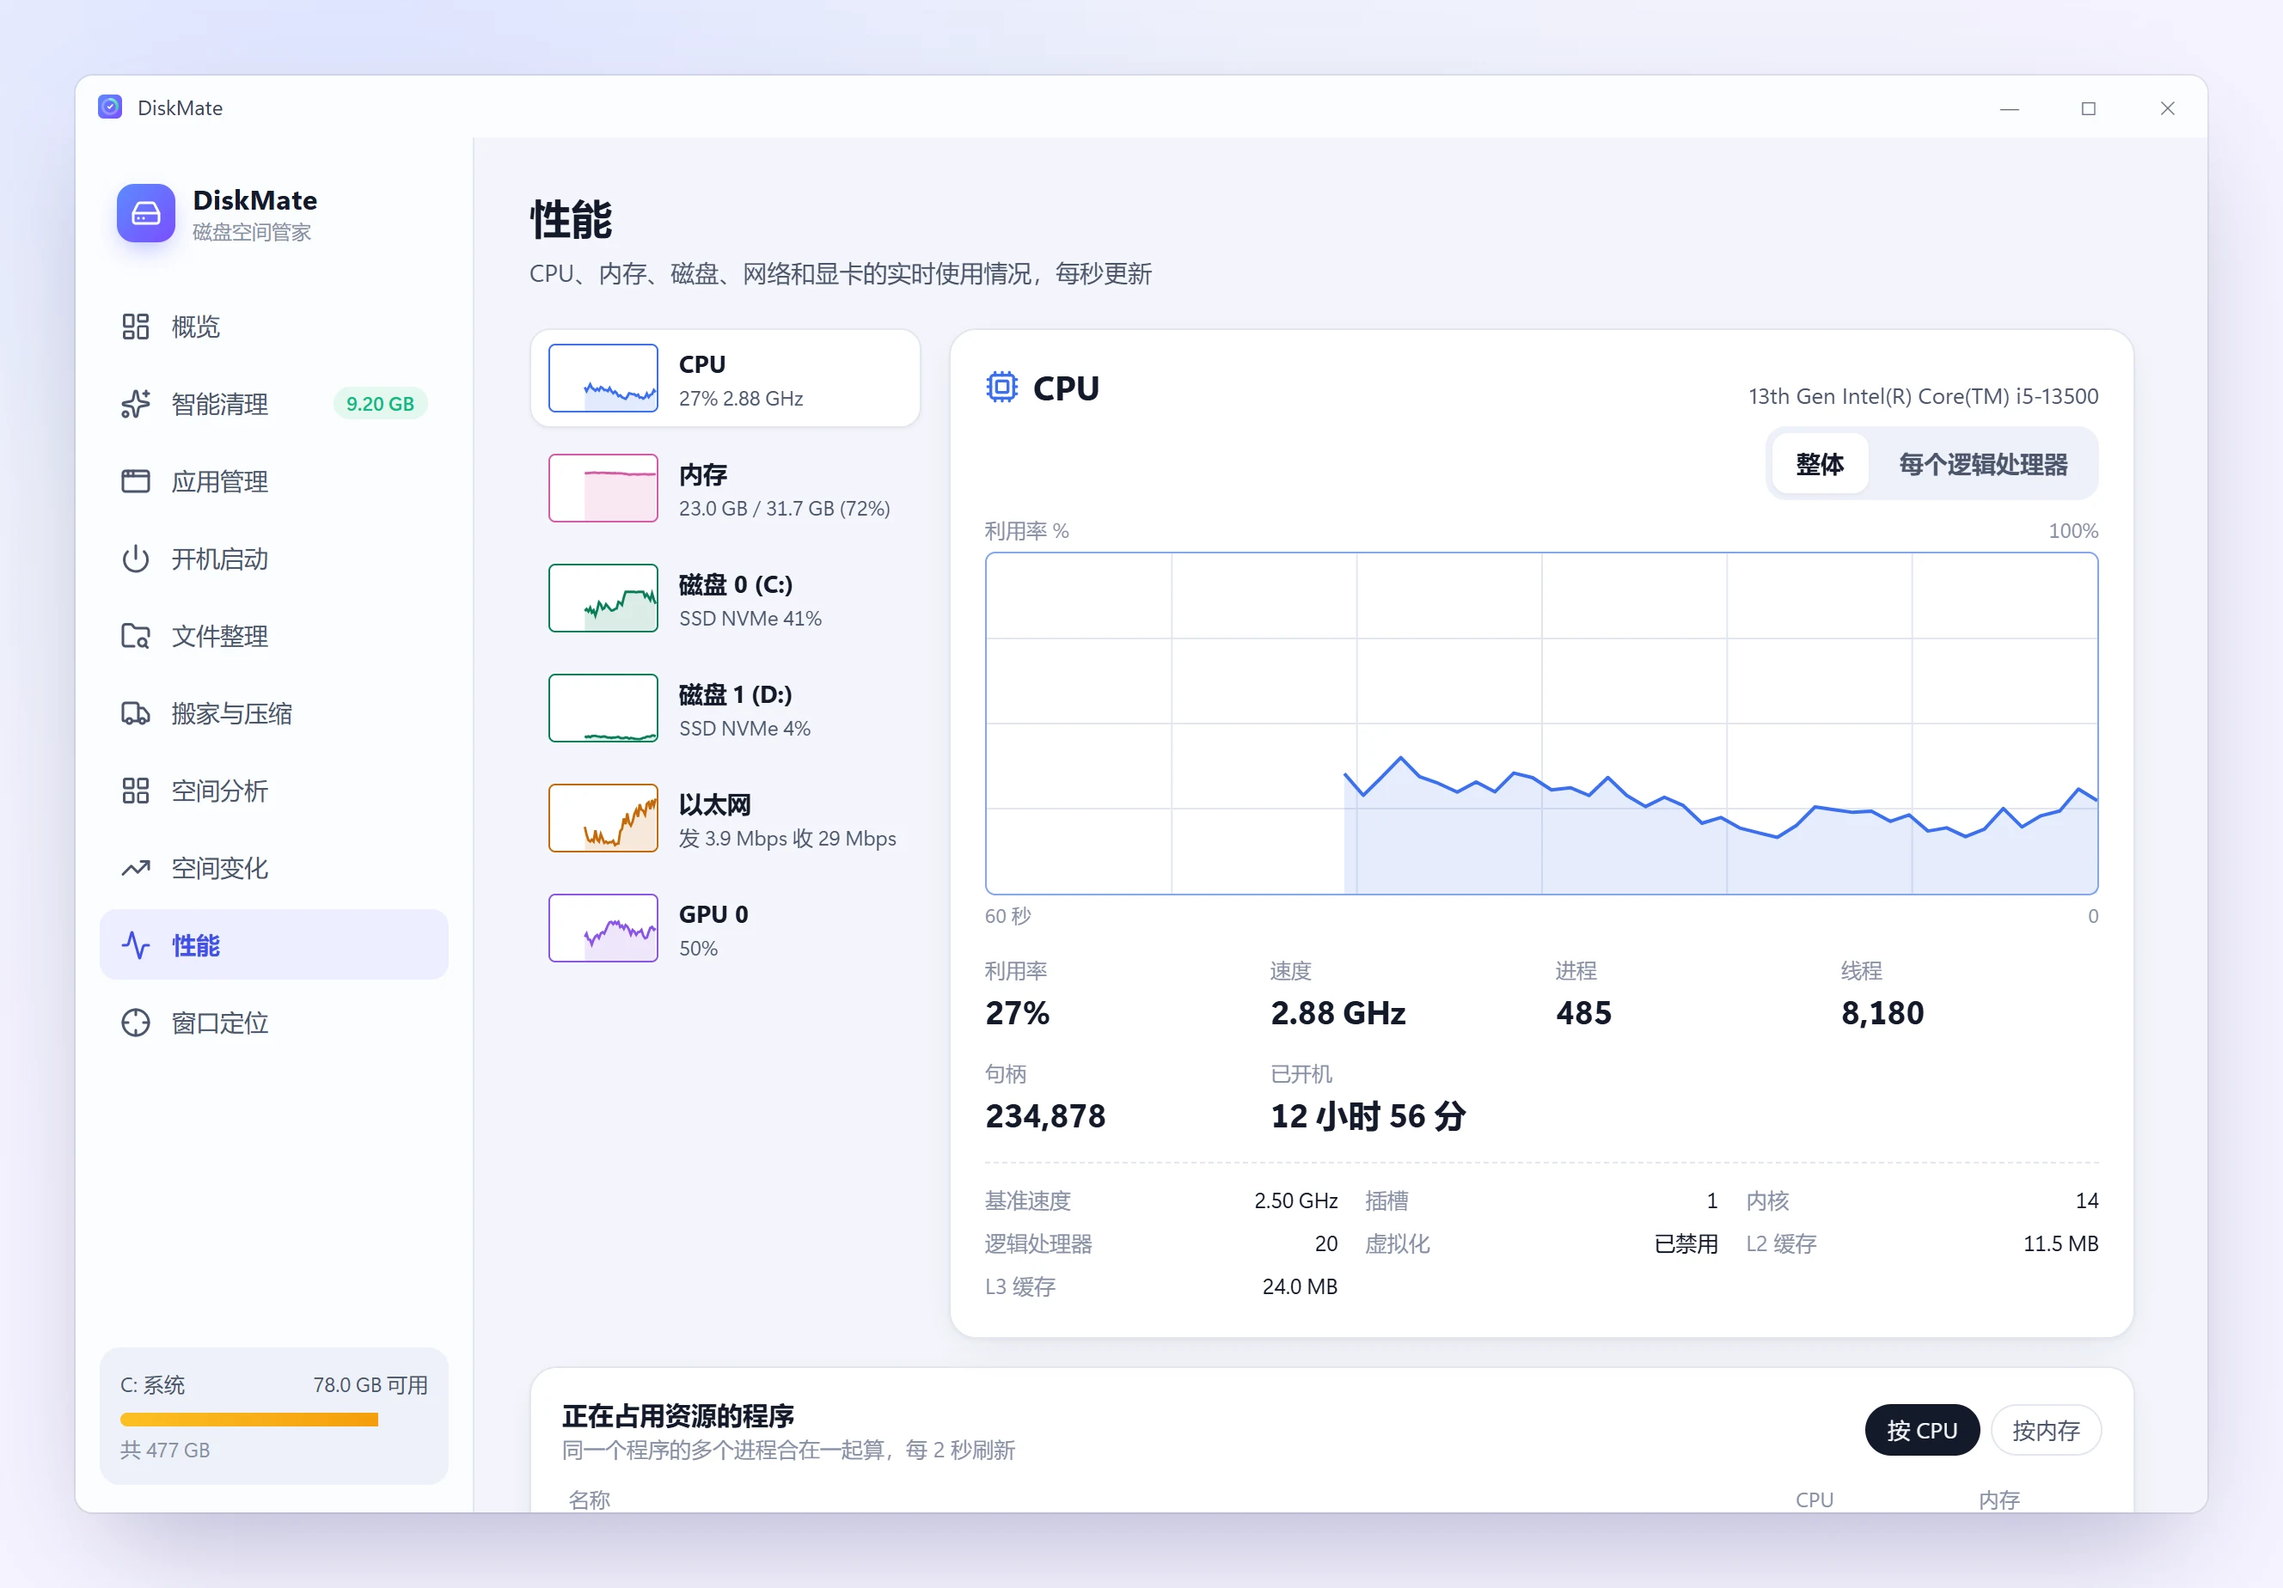
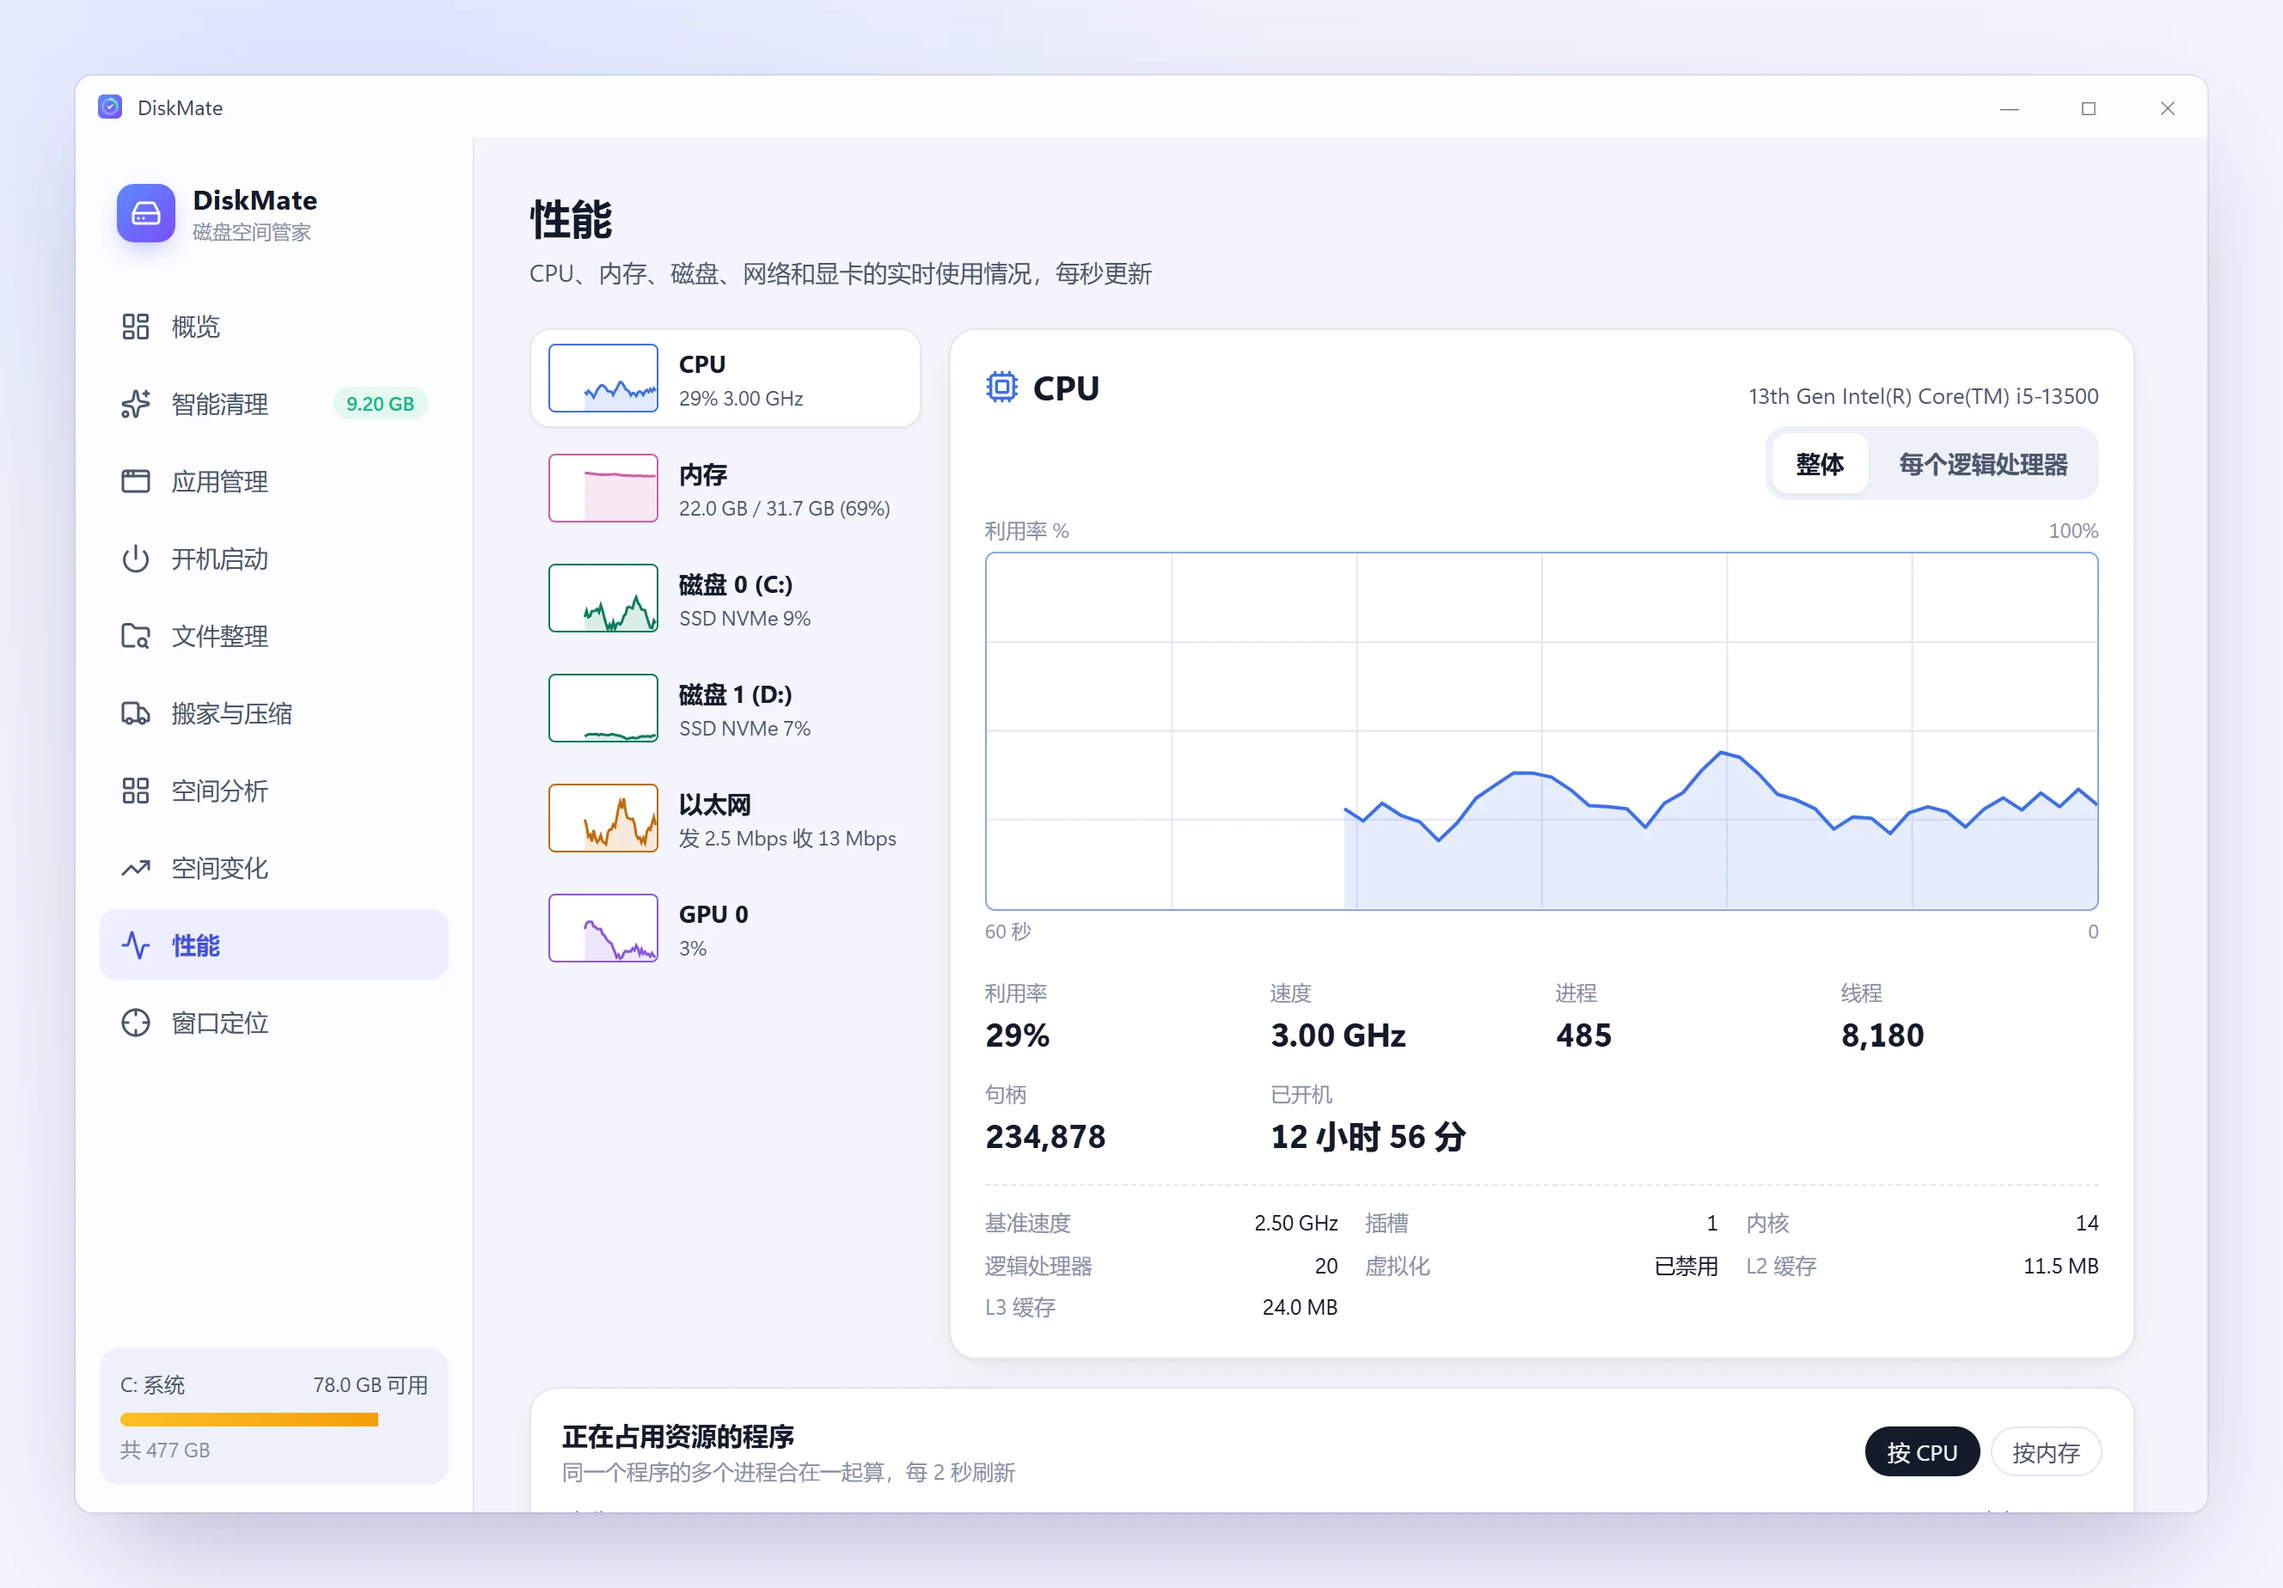
fix(perf): keep the performance page's panels in place
- The detail card has one height for every resource (600 px, 680 px on narrow windows) and
  the graphs take whatever height the stats leave, so switching CPU / memory / disk / network /
  GPU no longer moves the program list below (it moved by up to 162 px)
- Per-core graphs stretch to fill the card
- The program list is ordered by a running average, so rows only change places when a
  program's use really changes; the numbers shown stay live
- Screenshots re-captured

diff --git a/src/pages/Perf.tsx b/src/pages/Perf.tsx
@@ -57,14 +57,15 @@ function Chart({
   color,
   format,
   label,
-  height = 200,
+  grow = 1,
 }: {
   series: Series[];
   max: number;
   color: string;
   format: (v: number) => string;
   label: string;
-  height?: number;
+  /** Share of the detail card's free height, against the other graphs in the same view. */
+  grow?: number;
 }) {
   const W = 600;
   const H = 200;
@@ -80,7 +81,7 @@ function Chart({
   const left = hover !== null ? `${(1 - hover / (HISTORY - 1)) * 100}%` : "0";
 
   return (
-    <div className="chart">
+    <div className="chart" style={{ flexGrow: grow }}>
       <div className="chart-top">
         <span>{label}</span>
         {series.length > 1 && (
@@ -99,7 +100,7 @@ function Chart({
       </div>
       <div
         className="chart-plot"
-        style={{ height, "--c": color } as CSSProperties}
+        style={{ "--c": color } as CSSProperties}
         onMouseMove={(e) => {
           const r = e.currentTarget.getBoundingClientRect();
           const f = Math.min(1, Math.max(0, (e.clientX - r.left) / r.width));
@@ -156,16 +157,24 @@ function Chart({
   );
 }
 
-function Spark({ values, max, color }: { values: number[]; max: number; color: string }) {
+function Spark({ values, max, color, fill }: { values: number[]; max: number; color: string; fill?: boolean }) {
   const W = 64;
   const H = 40;
   const pts = values.map((v, i) => `${(W - (values.length - 1 - i) * (W / (HISTORY - 1))).toFixed(1)},${(H - (Math.min(v, max) / max) * (H - 2) - 1).toFixed(1)}`);
   return (
-    <svg className="spark" width={W} height={H} viewBox={`0 0 ${W} ${H}`} style={{ borderColor: color }} aria-hidden>
+    <svg
+      className="spark"
+      width={W}
+      height={H}
+      viewBox={`0 0 ${W} ${H}`}
+      preserveAspectRatio={fill ? "none" : undefined}
+      style={{ borderColor: color }}
+      aria-hidden
+    >
       {pts.length > 1 && (
         <>
           <polygon points={`${pts.join(" ")} ${W},${H} ${pts[0].split(",")[0]},${H}`} fill={color} opacity="0.15" />
-          <polyline points={pts.join(" ")} fill="none" stroke={color} strokeWidth="1.5" />
+          <polyline points={pts.join(" ")} fill="none" stroke={color} strokeWidth="1.5" vectorEffect="non-scaling-stroke" />
         </>
       )}
     </svg>
@@ -309,7 +318,7 @@ function Detail({ r, history, hw }: { r: Resource; history: PerfSample[]; hw: Ha
           <div className="perf-cores" style={{ gridTemplateColumns: `repeat(${coreColumns(s.cores.length)}, 1fr)` }}>
             {s.cores.map((v, i) => (
               <div key={i} className="perf-core" title={`处理器 ${i}：${pct(v)}`}>
-                <Spark values={history.map((h) => h.cores[i] ?? 0)} max={100} color={color} />
+                <Spark values={history.map((h) => h.cores[i] ?? 0)} max={100} color={color} fill />
                 <span className="num faint">{pct(v)}</span>
               </div>
             ))}
@@ -390,7 +399,7 @@ function Detail({ r, history, hw }: { r: Resource; history: PerfSample[]; hw: Ha
     const writes = history.map((h) => pick(h)?.write ?? 0);
     return (
       <>
-        <Chart label="活动时间 %" series={[{ name: "活动时间", values: history.map((h) => pick(h)?.active ?? 0) }]} max={100} color={color} format={pct} height={150} />
+        <Chart label="活动时间 %" series={[{ name: "活动时间", values: history.map((h) => pick(h)?.active ?? 0) }]} max={100} color={color} format={pct} grow={3} />
         <Chart
           label="传输速率"
           series={[
@@ -400,7 +409,7 @@ function Detail({ r, history, hw }: { r: Resource; history: PerfSample[]; hw: Ha
           max={niceMax(Math.max(...reads, ...writes), 1024 * 1024)}
           color={color}
           format={rate}
-          height={120}
+          grow={2}
         />
         <div className="perf-stats">
           <Stat label="活动时间" value={pct(cur?.active ?? 0)} />
@@ -508,6 +517,7 @@ function Processes() {
   const [details, setDetails] = useState<Record<string, FileDetails>>({});
   const asked = useRef(new Set<string>());
   const [kill, setKill] = useState<ProcGroup | null>(null);
+  const smooth = useRef(new Map<string, { cpu: number; memory: number }>());
   const [killing, setKilling] = useState(false);
 
   useEffect(() => {
@@ -518,7 +528,18 @@ function Processes() {
       running = true;
       api
         .perfProcesses()
-        .then((p) => alive && setProcs(p))
+        .then((p) => {
+          if (!alive) return;
+          // Rows are ordered by a running average: the numbers shown stay live, but a program
+          // only changes places when its use really changes, not on every 2-second blip.
+          const next = new Map<string, { cpu: number; memory: number }>();
+          for (const g of p) {
+            const old = smooth.current.get(g.name);
+            next.set(g.name, old ? { cpu: old.cpu * 0.7 + g.cpu * 0.3, memory: old.memory * 0.5 + g.memory * 0.5 } : { cpu: g.cpu, memory: g.memory });
+          }
+          smooth.current = next;
+          setProcs(p);
+        })
         .catch(() => undefined)
         .finally(() => (running = false));
     };
@@ -530,10 +551,15 @@ function Processes() {
     };
   }, []);
 
-  const top = useMemo(
-    () => [...(procs ?? [])].sort((a, b) => (sort === "cpu" ? b.cpu - a.cpu || b.memory - a.memory : b.memory - a.memory)).slice(0, 12),
-    [procs, sort],
-  );
+  const top = useMemo(() => {
+    const key = (p: ProcGroup) => smooth.current.get(p.name) ?? { cpu: p.cpu, memory: p.memory };
+    return [...(procs ?? [])]
+      .sort((a, b) => {
+        const [x, y] = [key(a), key(b)];
+        return sort === "cpu" ? y.cpu - x.cpu || y.memory - x.memory : y.memory - x.memory;
+      })
+      .slice(0, 12);
+  }, [procs, sort]);
 
   // Icons and readable names for programs not looked up yet.
   useEffect(() => {
@@ -715,7 +741,9 @@ export function Perf() {
                   {current.model || (hw ? "" : "正在读取硬件信息…")}
                 </span>
               </div>
-              <Detail key={current.id} r={current} history={history} hw={hw} />
+              <div className="perf-body">
+                <Detail key={current.id} r={current} history={history} hw={hw} />
+              </div>
             </div>
           )}
         </div>

diff --git a/src/styles.css b/src/styles.css
@@ -1828,9 +1828,29 @@ button {
   border-radius: 4px;
   background: var(--bg-elev);
 }
+/* One height for every resource, so switching between them never moves the program list below:
+   the graphs take whatever height the stats leave. */
 .perf-detail {
   padding: 18px 20px 20px;
   min-width: 0;
+  height: 600px;
+  display: flex;
+  flex-direction: column;
+}
+.perf-body {
+  flex: 1;
+  min-height: 0;
+  display: flex;
+  flex-direction: column;
+}
+.perf-body > * {
+  flex-shrink: 0;
+}
+/* Narrow windows wrap the stats onto more lines; a taller card keeps the graphs readable. */
+@media (max-width: 1100px) {
+  .perf-detail {
+    height: 680px;
+  }
 }
 .perf-head {
   display: flex;
@@ -1859,7 +1879,11 @@ button {
   justify-content: flex-end;
   margin: -4px 0 8px;
 }
-.chart {
+.perf-body > .chart {
+  flex: 1 1 0;
+  min-height: 0;
+  display: flex;
+  flex-direction: column;
   margin-bottom: 14px;
 }
 .chart-top,
@@ -1891,6 +1915,8 @@ button {
   gap: 5px;
 }
 .chart-plot {
+  flex: 1;
+  min-height: 70px;
   position: relative;
   border: 1px solid color-mix(in srgb, var(--c) 55%, var(--border));
   border-radius: 6px;
@@ -1938,8 +1964,11 @@ button {
 .chart-tip.flip {
   transform: translateX(calc(-100% - 20px));
 }
-.perf-cores {
+.perf-body > .perf-cores {
+  flex: 1 1 0;
+  min-height: 0;
   display: grid;
+  grid-auto-rows: 1fr;
   gap: 6px;
   margin-bottom: 14px;
 }
@@ -1948,7 +1977,7 @@ button {
 }
 .perf-core .spark {
   width: 100%;
-  height: 52px;
+  height: 100%;
 }
 .perf-core span {
   position: absolute;
